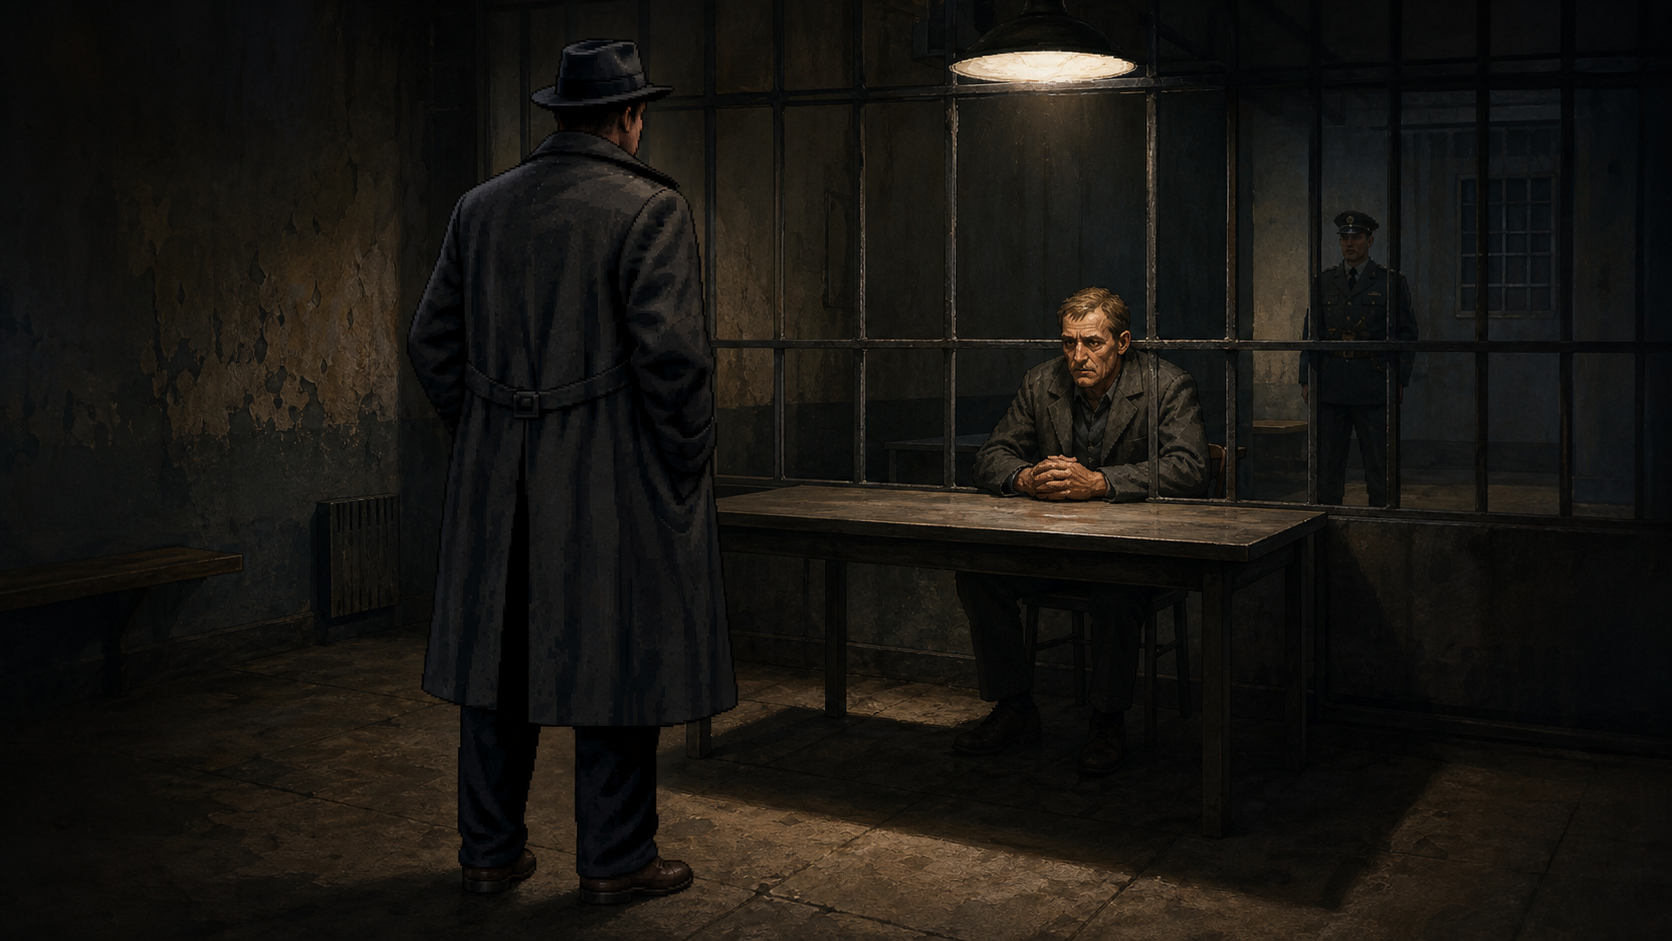
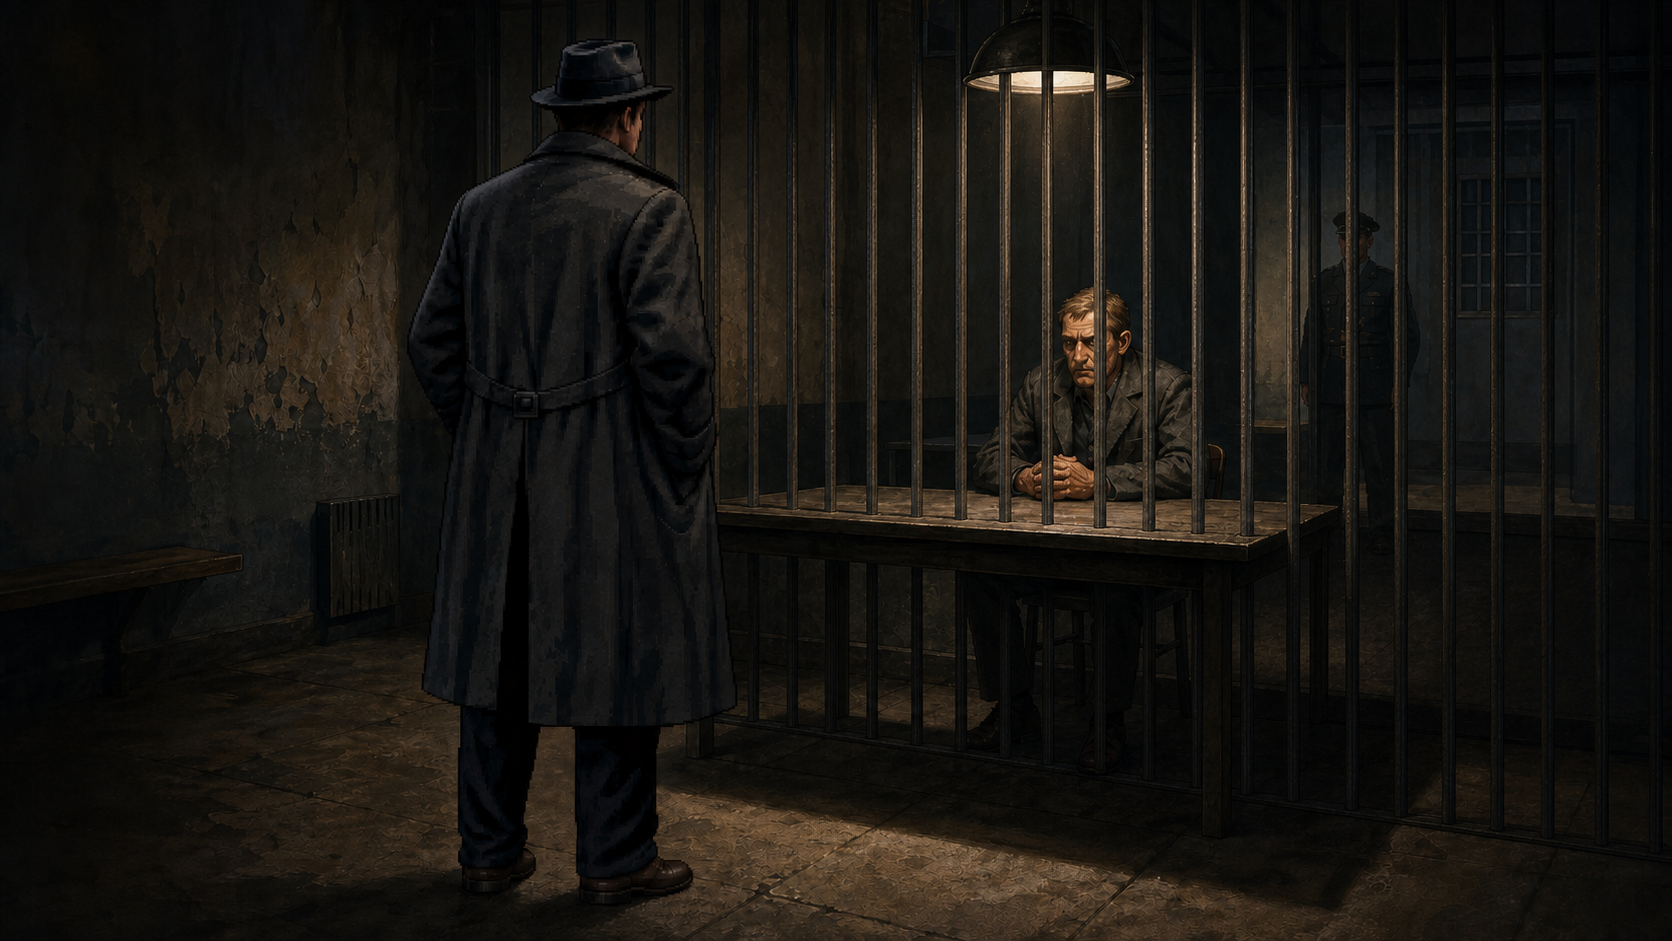
v7.12.1130: Szenenbilder fuer alle Faelle

diff --git a/index.html b/index.html
@@ -3670,7 +3670,7 @@
       </div>
       <div class="playmode-voicehint">Tipp fürs Hörbuch: In den Einstellungen (Zahnrad oben, „🔊 Sound-Einstellungen") kannst du die Vorlesestimme wechseln. Je nach Browser und Betriebssystem stehen unterschiedliche Stimmen bereit. In Google Chrome unter Windows gibt es z.B. die Stimme „Google Deutsch", die sehr natürlich klingt. Probier aus, welche dir am besten gefällt.</div>
     </div>
-    <div class="start-version">Schatten v7.12.1129</div>
+    <div class="start-version">Schatten v7.12.1130</div>
   </div>
 
   <!-- v7.11.67: Anleitungs-Seite "So funktioniert's" -->
@@ -3911,7 +3911,7 @@
 
   <!-- Footer -->
   <div id="footer" class="footer hidden">
-    <span>Schatten v7.12.1129</span>
+    <span>Schatten v7.12.1130</span>
     <span id="footer-model" style="opacity:0.7;"></span>
   </div>
 
@@ -12167,7 +12167,7 @@ function _schlafAufwachZiel(idx) {
 
 let conversationHistory = []; // v7.12.120: umbenannt (war 'history' - kollidierte mit window.history)
 // Globale Version, von exportTranscript() und Debug-Dumps verwendet
-window.SCHATTEN_VERSION = 'v7.12.1129 +Schiffer-Goerke-Brauer-Szenenbilder';
+window.SCHATTEN_VERSION = 'v7.12.1130 +Alle-Faelle-Szenenbilder';
 // v7.12.163 (Sicherheit): Deploy-UI-Schalter. false = Deploy-Button versteckt + Funktion
 // gesperrt. Der /api/deploy-Endpoint ist zusaetzlich serverseitig per DEPLOY_ENABLED-Env
 // gesperrt (Kill-Switch). Zum Reaktivieren beides setzen.
@@ -53849,6 +53849,56 @@ const CASE_SCENE_IMAGE_SETS = [
       { test: /^bahnhof friedrichstrasse$|^s bahnhof friedrichstrasse$/, file: 'sbahnhof-friedrichstrasse.png', dayFile: 'sbahnhof-friedrichstrasse-day.png', place: 'S-Bahnhof Friedrichstrasse', innen: false, root: 'assets/scenes/kessler/' },
       ...SHARED_SCENE_IMAGES.filter(function (entry) {
         return /karl mauers|doc wagner|opel olympia/.test(String(entry.test));
+      }).map(function (entry) { return { ...entry, root: 'assets/scenes/kessler/' }; }),
+    ],
+  },
+  {
+    caseTest: /bruno wessel|werner wessel/i,
+    root: 'assets/scenes/wessel/',
+    images: [
+      { test: /wessel wohnung/, file: 'wessel-wohnung.png', dayFile: 'wessel-wohnung-day.png', place: 'Wessel-Wohnung', innen: true },
+      { test: /stalinallee baustelle/, file: 'stalinallee-baustelle.png', dayFile: 'stalinallee-baustelle-day.png', place: 'Stalinallee Baustelle', innen: false },
+      { test: /haus der ministerien/, file: 'haus-der-ministerien.png', dayFile: 'haus-der-ministerien-day.png', place: 'Haus der Ministerien', innen: false },
+      { test: /strausberger platz/, file: 'strausberger-platz.png', dayFile: 'strausberger-platz-day.png', place: 'Strausberger Platz', innen: false },
+      { test: /charite notaufnahme/, file: 'charite-notaufnahme.png', dayFile: 'charite-notaufnahme-day.png', place: 'Charite Notaufnahme', innen: true },
+      { test: /volkspolizei.*keibelstrasse|keibelstrasse/, file: 'volkspolizei-keibelstrasse.png', dayFile: 'volkspolizei-keibelstrasse-day.png', place: 'Volkspolizei-Praesidium Keibelstrasse', innen: true, root: 'assets/scenes/schiffer/' },
+      { test: /hohenschoenhausen|genslerstrasse/, file: 'hohenschoenhausen-genslerstrasse.png', dayFile: 'hohenschoenhausen-genslerstrasse-day.png', place: 'Hohenschoenhausen / Genslerstrasse', innen: false, root: 'assets/scenes/vogt/' },
+      ...SHARED_SCENE_IMAGES.filter(function (entry) {
+        return /karl mauers|doc wagner|opel olympia|friedrichstrasse/.test(String(entry.test));
+      }).map(function (entry) { return { ...entry, root: 'assets/scenes/kessler/' }; }),
+    ],
+  },
+  {
+    caseTest: /auguste lindenbaum|albert lindenbaum/i,
+    root: 'assets/scenes/lindenbaum/',
+    images: [
+      { test: /lindenbaum wohnung/, file: 'lindenbaum-wohnung.png', dayFile: 'lindenbaum-wohnung-day.png', place: 'Lindenbaum-Wohnung', innen: true },
+      { test: /ho verwaltung stalinallee/, file: 'ho-verwaltung-stalinallee.png', dayFile: 'ho-verwaltung-stalinallee-day.png', place: 'HO-Verwaltung Stalinallee', innen: true },
+      { test: /pathologie charite/, file: 'pathologie-charite.png', dayFile: 'pathologie-charite-day.png', place: 'Pathologie Charite', innen: true },
+      { test: /marx engels platz/, file: 'marx-engels-platz.png', dayFile: 'marx-engels-platz-day.png', place: 'Marx-Engels-Platz', innen: false },
+      { test: /volkspolizei.*keibelstrasse|keibelstrasse/, file: 'volkspolizei-keibelstrasse.png', dayFile: 'volkspolizei-keibelstrasse-day.png', place: 'Volkspolizei-Praesidium Keibelstrasse', innen: true, root: 'assets/scenes/schiffer/' },
+      { test: /imbiss bei trude|bei trude/, file: 'imbiss-bei-trude.png', dayFile: 'imbiss-bei-trude-day.png', place: 'Imbiss Bei Trude', innen: false, root: 'assets/scenes/wegener/' },
+      { test: /cafe kranzler/, file: 'cafe-kranzler.png', dayFile: 'cafe-kranzler-day.png', place: 'Cafe Kranzler', innen: true, root: 'assets/scenes/stein/' },
+      ...SHARED_SCENE_IMAGES.filter(function (entry) {
+        return /karl mauers|opel olympia|friedrichstrasse/.test(String(entry.test));
+      }).map(function (entry) { return { ...entry, root: 'assets/scenes/kessler/' }; }),
+    ],
+  },
+  {
+    caseTest: /reinhold achterberg|wilhelmine achterberg/i,
+    root: 'assets/scenes/achterberg/',
+    images: [
+      { test: /deutsche staatsoper|admiralspalast/, file: 'deutsche-staatsoper-admiralspalast.png', dayFile: 'deutsche-staatsoper-admiralspalast-day.png', place: 'Deutsche Staatsoper (Admiralspalast)', innen: true },
+      { test: /achterbergs? garderobe/, file: 'achterberg-garderobe.png', dayFile: 'achterberg-garderobe-day.png', place: 'Achterbergs Garderobe', innen: true },
+      { test: /vossbergs? wohnung/, file: 'vossberg-wohnung.png', dayFile: 'vossberg-wohnung-day.png', place: 'Vossbergs Wohnung', innen: true },
+      { test: /achterberg villa/, file: 'achterberg-villa.png', dayFile: 'achterberg-villa-day.png', place: 'Achterberg-Villa', innen: true },
+      { test: /liesel forsthubers? wohnung/, file: 'liesel-forsthuber-wohnung.png', dayFile: 'liesel-forsthuber-wohnung-day.png', place: 'Liesel Forsthubers Wohnung', innen: true },
+      { test: /apotheke.*bahnhof friedrichstrasse/, file: 'apotheke-bahnhof-friedrichstrasse.png', dayFile: 'apotheke-bahnhof-friedrichstrasse-day.png', place: 'Apotheke am Bahnhof Friedrichstrasse', innen: true },
+      { test: /dr marquardt.*praxis|marquardts? praxis/, file: 'dr-marquardt-praxis.png', dayFile: 'dr-marquardt-praxis-day.png', place: 'Dr. Marquardts Praxis', innen: true },
+      { test: /pathologie charite/, file: 'pathologie-charite.png', dayFile: 'pathologie-charite-day.png', place: 'Pathologie Charite', innen: true, root: 'assets/scenes/lindenbaum/' },
+      { test: /cafe kranzler/, file: 'cafe-kranzler.png', dayFile: 'cafe-kranzler-day.png', place: 'Cafe Kranzler', innen: true, root: 'assets/scenes/stein/' },
+      ...SHARED_SCENE_IMAGES.filter(function (entry) {
+        return /karl mauers|opel olympia/.test(String(entry.test));
       }).map(function (entry) { return { ...entry, root: 'assets/scenes/kessler/' }; }),
     ],
   },